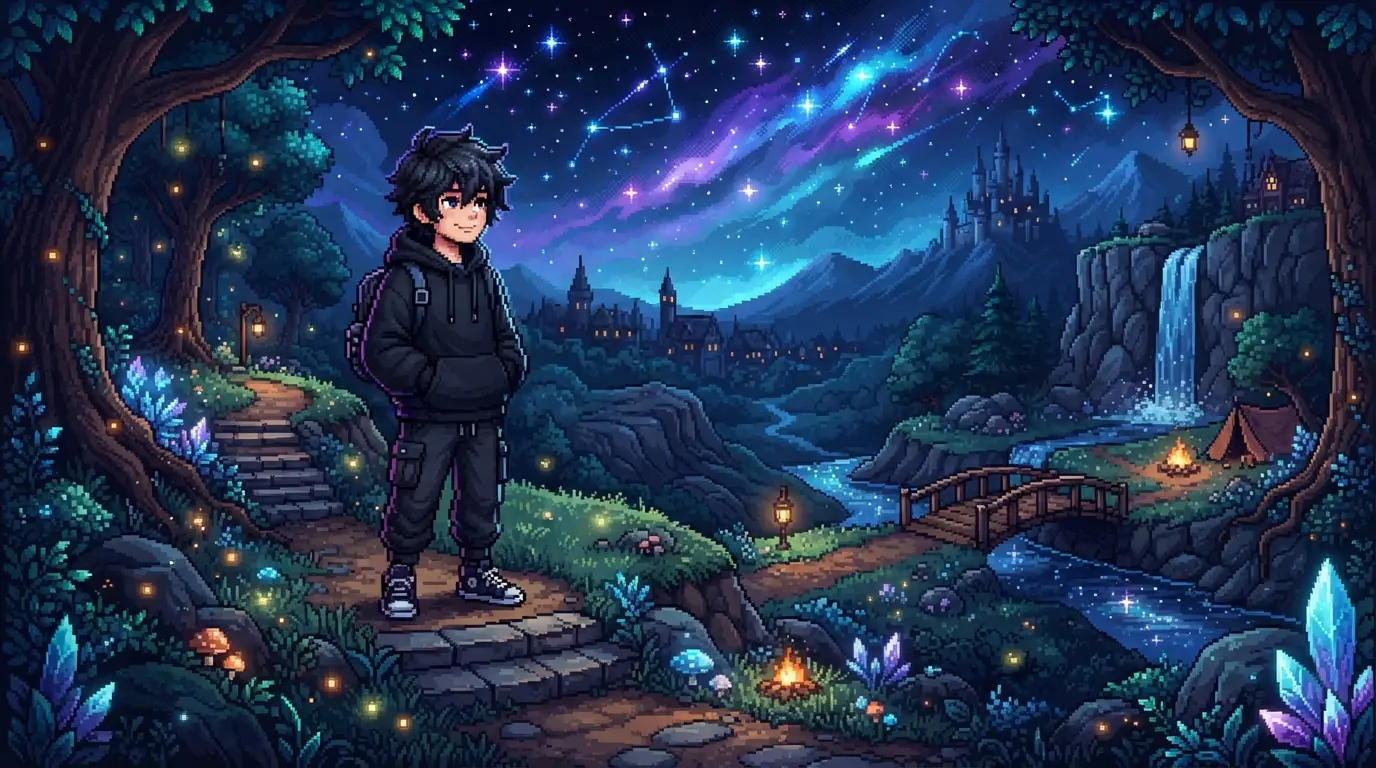
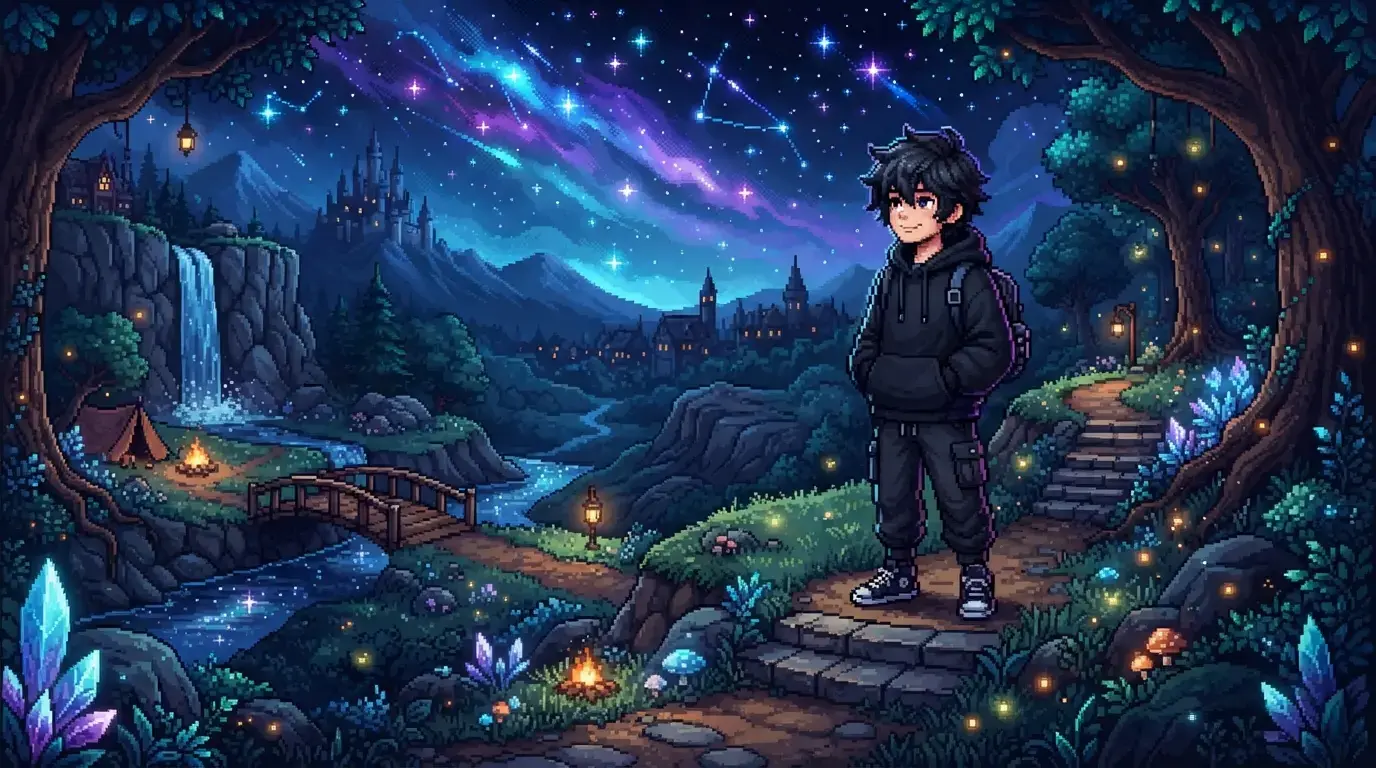
feat: apply Silkscreen and Press Start 2P fonts across all components

diff --git a/src/components/HeroSection.tsx b/src/components/HeroSection.tsx
@@ -39,16 +39,16 @@ export function HeroSection() {
             className="flex items-center gap-2 mb-4"
           >
             <Heart size={16} className="text-accent fill-accent" />
-            <span className="pixel-font text-[8px] sm:text-[10px] text-text-secondary tracking-wider">
-              Hi, I'm {siteConfig.name}
-            </span>
+            <span className="retro-font text-[8px] sm:text-[10px] text-text-secondary tracking-wider">
+                Hi, I'm {siteConfig.name}
+              </span>
           </motion.div>
 
           <motion.h1
             initial={{ opacity: 0, y: 20 }}
             animate={{ opacity: 1, y: 0 }}
             transition={{ duration: 0.6, delay: 0.1 }}
-            className="text-4xl sm:text-5xl lg:text-6xl xl:text-7xl font-bold leading-tight mb-6"
+              className="text-4xl sm:text-5xl lg:text-6xl xl:text-7xl font-bold leading-tight mb-6 retro-font"
           >
             Building Digital{" "}
             <span className="gradient-text">Worlds</span>

diff --git a/src/components/TechStackSection.tsx b/src/components/TechStackSection.tsx
@@ -44,7 +44,7 @@ export function TechStackSection() {
       <div className="max-w-6xl mx-auto px-4 sm:px-6">
         <ScrollReveal>
           <div className="text-center mb-12">
-            <span className="pixel-font text-[10px] text-primary block mb-3">
+            <span className="retro-font text-[10px] text-primary block mb-3">
               Tech Stack
             </span>
             <h2 className="text-2xl sm:text-3xl lg:text-4xl font-bold mb-4">
@@ -68,7 +68,7 @@ export function TechStackSection() {
               />
             </div>
             <div className="glow-border rounded-lg p-4 bg-bg-elevated text-center">
-              <p className="pixel-font text-[7px] text-text-secondary leading-relaxed">
+              <p className="retro-font text-[7px] text-text-secondary leading-relaxed">
                 Always learning,
                 <br />
                 always building.

diff --git a/src/components/ContactSection.tsx b/src/components/ContactSection.tsx
@@ -48,7 +48,7 @@ export function ContactSection() {
             <div className="grid lg:grid-cols-2 gap-10 relative">
               {/* Left */}
               <div>
-                <span className="pixel-font text-[10px] text-primary block mb-3">
+                <span className="retro-font text-[10px] text-primary block mb-3">
                   Get In Touch
                 </span>
                 <h2 className="text-2xl sm:text-3xl font-bold mb-4">
@@ -70,7 +70,7 @@ export function ContactSection() {
                     />
                   </div>
                   <div className="glow-border rounded-lg p-3 bg-bg-secondary">
-                    <p className="pixel-font text-[7px] text-cyan">
+                    <p className="retro-font text-[7px] text-cyan">
                       Thanks for visiting!
                     </p>
                   </div>

diff --git a/src/components/ProjectsSection.tsx b/src/components/ProjectsSection.tsx
@@ -100,7 +100,7 @@ export function ProjectsSection() {
       <div className="max-w-6xl mx-auto px-4 sm:px-6">
         <ScrollReveal>
           <div className="text-center mb-12">
-            <span className="pixel-font text-[10px] text-primary block mb-3">
+            <span className="retro-font text-[10px] text-primary block mb-3">
               Featured Projects
             </span>
             <h2 className="text-2xl sm:text-3xl lg:text-4xl font-bold">

diff --git a/src/components/Header.tsx b/src/components/Header.tsx
@@ -40,7 +40,7 @@ export function Header() {
             alt={siteConfig.name}
             className="w-7 h-7 rounded-md object-cover"
           />
-          <span className="pixel-font text-[10px] text-text-main group-hover:text-primary transition-colors">
+          <span className="retro-font text-[10px] text-text-main group-hover:text-primary transition-colors">
             {siteConfig.name}
           </span>
         </a>

diff --git a/src/components/AboutSection.tsx b/src/components/AboutSection.tsx
@@ -34,7 +34,7 @@ export function AboutSection() {
                 alt={siteConfig.name}
                 className="w-8 h-8 rounded-md object-cover"
               />
-              <span className="pixel-font text-[10px] text-primary">
+              <span className="retro-font text-[10px] text-primary">
                 About Me
               </span>
             </div>

diff --git a/src/components/Footer.tsx b/src/components/Footer.tsx
@@ -20,7 +20,7 @@ export function Footer() {
               alt={siteConfig.name}
               className="w-6 h-6 rounded-md object-cover"
             />
-            <span className="pixel-font text-[8px] text-text-main">
+            <span className="retro-font text-[8px] text-text-main">
               {siteConfig.name}
             </span>
           </div>

diff --git a/src/index.css b/src/index.css
@@ -31,6 +31,10 @@ body {
   -webkit-font-smoothing: antialiased;
 }
 
+h1, h2, h3 {
+  font-family: var(--font-pixel);
+}
+
 @media (prefers-reduced-motion: reduce) {
   html {
     scroll-behavior: auto;
